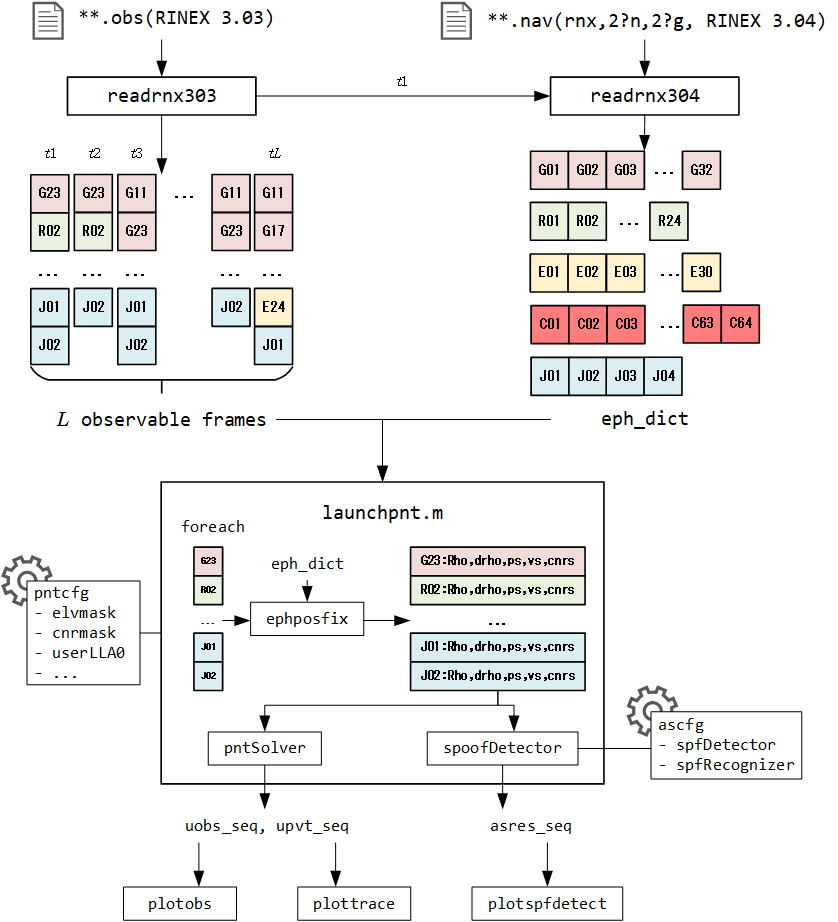
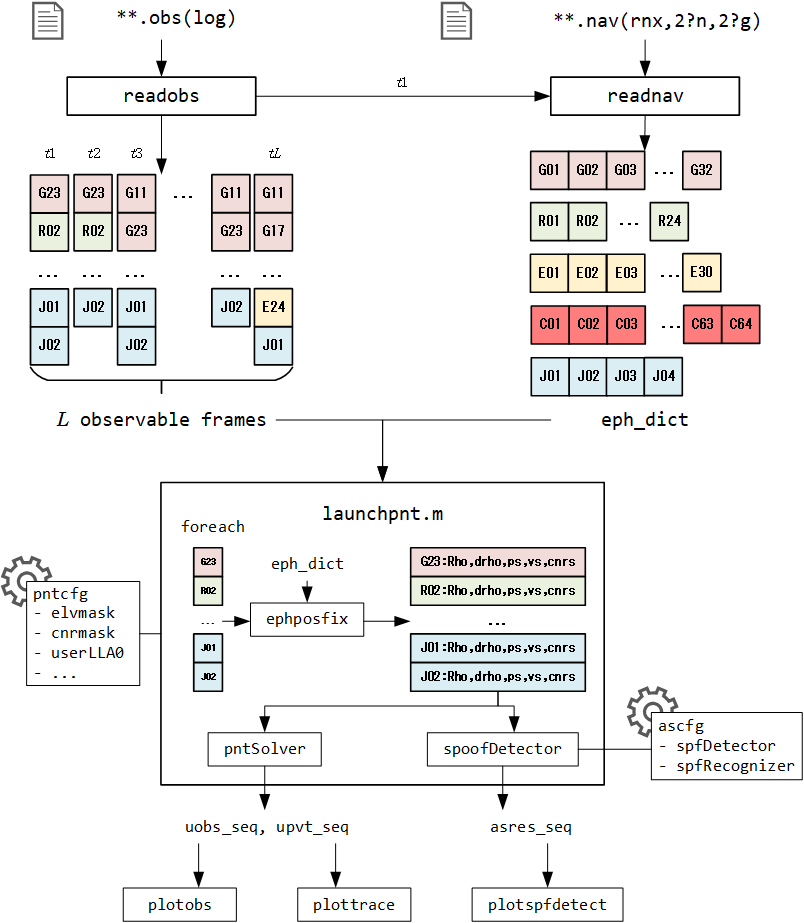
Update README

diff --git a/src/reader/readobs.m b/src/reader/readobs.m
@@ -1,6 +1,6 @@
 function obs_seq = readobs(fname)
     logger = Logger();
-    logger.enStack("readrnx303: Loading from %s.", fname);
+    logger.enStack("readobs: Loading from %s.", fname);
     nobs_max = 86400;
     flines = readlines(fname); % Read file content as characters
     
@@ -90,7 +90,7 @@ function obs_seq = readobs(fname)
     logger.writeLine("Maximum/Minimum #obs = %3d/%3d;", ...
         max([cellfun(@(x) length(x), obs_seq)]), ...
         min([cellfun(@(x) length(x), obs_seq)]));
-    logger.deStack("readrnx303 finished.\n");
+    logger.deStack("readobs finished.\n");
 end
 
 function fc_arr = sname2fc(sname)

diff --git a/src/reader/readnav.m b/src/reader/readnav.m
@@ -11,7 +11,7 @@ function eph_dict = readnav(fname, t)
 
     %% Initialization
     logger = Logger();
-    logger.enStack("readrnx304: Loading from %s.", fname);
+    logger.enStack("readnav: Loading from %s.", fname);
     [~, ~, fext] = fileparts(fname);
     fid = fopen(fname);
     line = fgetl(fid);
@@ -200,5 +200,5 @@ function eph_dict = readnav(fname, t)
         end
     end
     logger.deStack("Number of valid emphemeris: %d.", eph_dict.numEntries);
-    logger.deStack("readrnx304 finished.\n");
+    logger.deStack("readnav finished.\n");
 end

diff --git a/README.md b/README.md
@@ -10,11 +10,11 @@ The input of `antispooflib` should include **observable** and **navigation data*
 
 The following figure shows the workflow of `antispooflib`：
 
-- `readrnx303.m` is responsible for reading a `.obs` file, which should be a single or multiple constellation observable file.
+- `readobs.m` is responsible for reading a `.obs` file, which should be a single or multiple constellation observable file.
   - Output: `obs_seq`, a sequence with `L` frames of observable
-- `readrnx304.m` is responsible for reading a `.nav/.rnx/.2?g/.2?n`file, which should be a single or multiple constellation navigation data file
+- `readnav.m` is responsible for reading a `.nav/.rnx/.2?g/.2?n`file, which should be a single or multiple constellation navigation data file
   - Output: `eph_dict`, a `dictionary` with keys formatted as `SNN`, such as `G01` for GPS SVN1.
-  - Note: The navigation data time should be as close with that of the observable data as possible. Only the satellites in the `.obs` file with corresponding valid navigation data read by `readrnx304.m` are allowed to participate in PNT solution.
+  - Note: The navigation data time should be as close with that of the observable data as possible. Only the satellites in the `.obs` file with corresponding valid navigation data read by `readnav.m` are allowed to participate in PNT solution.
 
 - `launchpnt.m` is responsible for PNT solution and spoofing detection using configurations `pntcfg`和 and `ascfg`
   - For each observable frame `obs` in `obs_seq`，look up `eph_dict` for the ephemeris involved.
@@ -187,13 +187,13 @@ Run `main.m` in MATLAB console.
    - Console output example
 
      ```
-     readrnx303: Loading from E:\Seafile\GNSS\gnss.workspace\antispooflib\data\COM14_2024-08-26_13.22.41.obs.
+     readobs: Loading from E:\Seafile\GNSS\gnss.workspace\antispooflib\data\COM14_2024-08-26_13.22.41.obs.
        421 data blocks detected.
        Progress: >>>>>>>>>>>>>>>   393/  421
        421 data blocks have been read successfully.
        Recorded from 2024-08-26 05:22:51 to 2024-08-26 05:24:51;
        Maximum/Minimum #obs =  34/  8;
-     readrnx303: 421 observations loaded.
+     readobs: 421 observations loaded.
      ```
 
 2. Follow the GUI guidance and select the `.nav` file mentioned above
@@ -202,14 +202,14 @@ Run `main.m` in MATLAB console.
    - Console output example
 
    ```
-   readrnx304: Loading from E:\Seafile\GNSS\gnss.workspace\antispooflib\data\COM14_2024-08-26_13.22.41.nav.
+   readnav: Loading from E:\Seafile\GNSS\gnss.workspace\antispooflib\data\COM14_2024-08-26_13.22.41.nav.
      Number of valid emphemeris: 20.
      G: 2 ephemeris valid.
      C: 10 ephemeris valid.
      J: 3 ephemeris valid.
      E: 2 ephemeris valid.
      R: 3 ephemeris valid.
-   readrnx304: 20 valid ephemeris loaded.
+   readnav: 20 valid ephemeris loaded.
    ```
 
    - If there are not enough ephemeris in `.nav`, one may also download the broadcast ephemeris of that day from [CDDIS | | archive | gnss | data | daily | 2024 | (nasa.gov)](https://cddis.nasa.gov/archive/gnss/data/daily/2024/brdc/).
